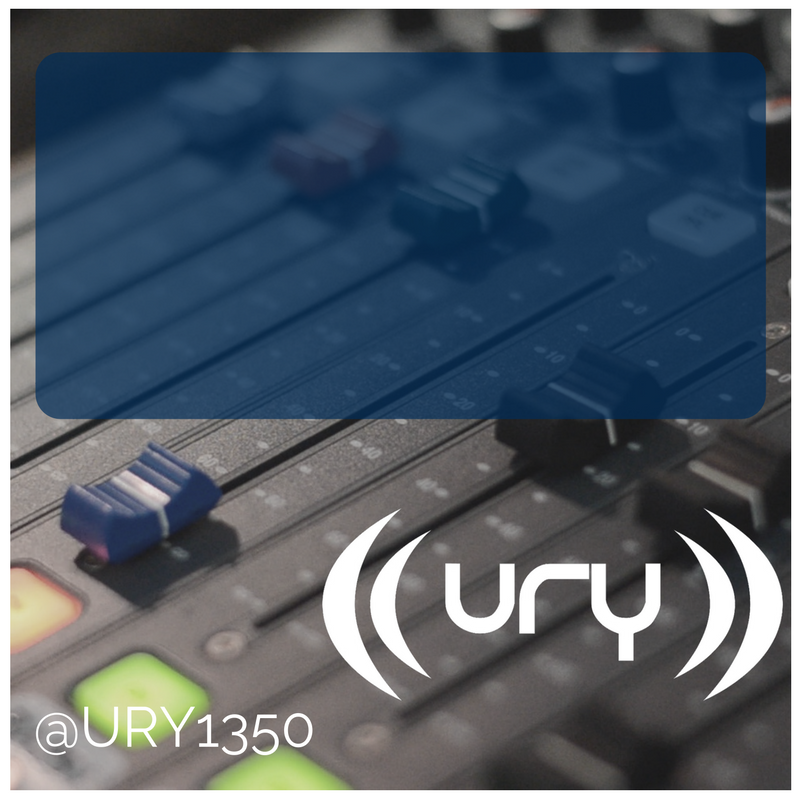
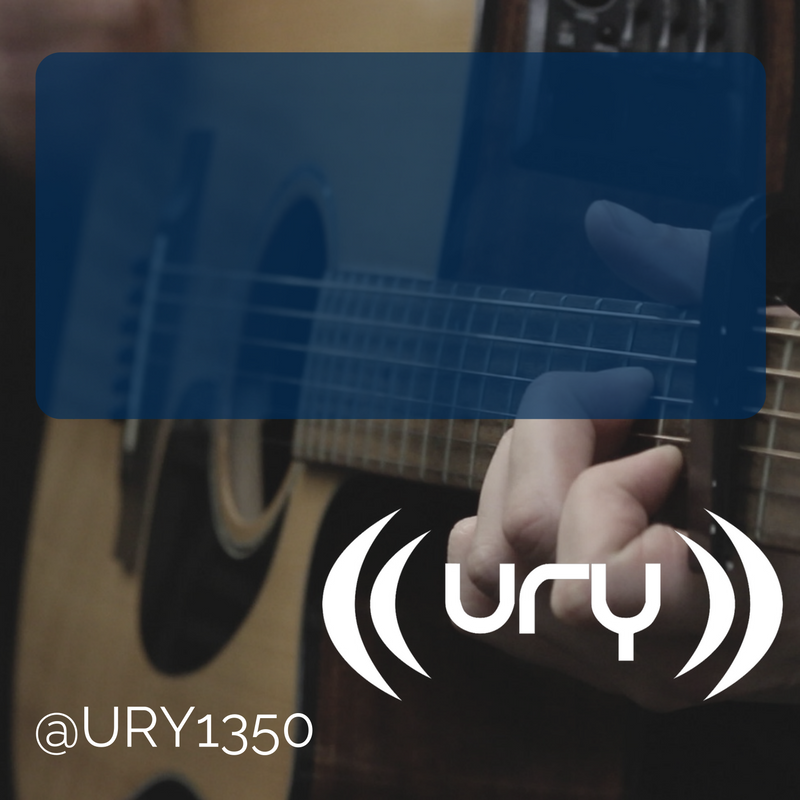
Fixed White Border Issue
The white border was on the original images.

diff --git a/ShowImageCreator.py b/ShowImageCreator.py
@@ -14,7 +14,7 @@ def add_text(showName, outputName):
     """
     print(showName) #Prints to the console which show is being processed.
 
-    # This looks at the name of the show weather it is a flagship or not.
+    # This looks at the name of the show whether it is a flagship or not.
     if showName == '':
         raise Exception("No show name provided.")
     elif showName[:10] == 'URY Brunch': #AM Flagship
@@ -102,6 +102,6 @@ for i in range(0,len(output)):
 for el in output:
     add_text(el)
 '''
-ShowsDict = {12209: 'URY:PM - URY Chart Show', 12868: 'URY:PM - Roku Radio', 12374: 'URY Newshour', 12928: 'No Ducks Given', 12957: '(20,000 Leagues) Into the Void', 13000: "What's That Topic?", 13008: 'Stage', 13049: 'York Sport Report', 13053: 'URY:PM with K-Spence', 13065: 'URY Brunch: The Saturday Lie-In', 13067: "Georgie and Angie's Book Corner", 13070: 'Gully Riddems', 13071: 'Indie Unearthed', 13073: 'Building Bridges - The Road to Rock and Roll', 13074: 'Castle Sessions', 13120: 'Pardon my French', 13123: 'Your Opinion is Wrong', 13125: 'The Night Call', 13126: 'InsomniHour', 13130: "What's on my playlist?", 13134: "Diggin' Deep", 13140: 'Barry Tomes', 13141: 'Topics & Tunes', 13149: 'RapChat', 13156: 'Morning Glory', 13159: 'The 20th Century Collection', 11628: 'Retrospectre!', 13167: 'Star Struck Jack and The Mystery Cat', 13177: 'Kick back Sundays with Kate ', 13179: 'URY:PM (( URY Music ))', 13184: 'The Late Night Bass Podcast', 13186: 'These Charming Girls', 13189: 'Grumpy Youngish Men', 13192: "Leckie's listeners", 13202: 'Dylan with a Mike!', 13204: 'The Right Faces For Radio', 13209: 'Things Can Only Get Bitter', 13227: 'Fringe: Full Metal Racket', 13228: 'URY Brunch: Star-Struck Jack and the Mystery Cat', 13232: 'URY Brunch - Breakfast Club', 13233: "URY Brunch - We're All Ears", 13235: 'Catchy Chunes', 13245: 'In Between Days', 13246: 'No DLC Required', 13255: 'The Breakz Showcase ', 13256: 'URY Brunch - Amateur Hour', 13257: "Grandad's Jazz", 13258: 'URY:PM - Peculiarities', 13259: 'Tales from the Phantasmagoria', 13260: 'URY:PM - Willis Weekly', 13261: 'Almost Audible', 13262: 'Cream Cheese', 13263: "#URYonTOUR: Freshers' 2016", 13264: 'URY:PM - No Ducks Given', 13265: 'Screen', 13266: 'URY Brunch - The Culture Show', 13267: 'URY Whisper Show', 13268: 'URY Brunch - Smile!', 13269: 'Midweek Marauders', 13270: 'Hidden Gems', 13271: 'Go Funk Yourself', 13272: 'The Brighter Side of Life', 13273: "Peck's Picks", 13274: 'Toons in the Afternoons', 13275: 'Roger That', 13276: 'The Eclectic Mix', 13277: 'The Alternative Music Show', 13278: 'DESERT ISLAND DISCO', 13279: 'coHEARence', 13280: 'Formula 1 Analysis', 13282: 'AM-bassador', 13283: 'Liv and the guy', 13284: 'Monday Chills ', 13285: 'Your Weekend', 13287: 'Non-Stop-Tom', 13288: 'Cool Britannia', 13289: 'Nothing but Chuuuunes with Hayds', 13290: 'The Ben and Jasper Show', 13291: 'Why Not?', 13292: 'Alternative Juice', 13293: "Chef Will - Where there's a Will, there's a...", 13294: 'NOUVEAU.', 13295: 'Kiltie Pleasures with Jonny ', 13296: 'Brain Waves', 13297: 'The Sounds of Time', 13298: "Josh and Tom's Afternoon Antics", 13299: 'Music for Old People', 13300: 'GAYdio', 13301: 'PolChat', 13302: 'Vanbrugh Chair Debate', 13303: 'URY Presents: UYCB 2016 Winter Concert', 13304: 'NICturnal', 13305: 'Speech Showcase', 13306: 'More Songs About Chocolate And Girls...', 13307: 'URY Does RAG Courtyard Takeover'}
+ShowsDict = {12209: 'URY:PM - URY Chart Show', 12868: 'URY:PM - Roku Radio', 12374: 'URY Newshour', 12928: 'No Ducks Given', 12957: '(20,000 Leagues) Into the Void', 13000: "What's That Topic?", 13008: 'Stage', 13049: 'York Sport Report', 13065: 'URY Brunch: The Saturday Lie-In', 13067: "Georgie and Angie's Book Corner", 13070: 'Gully Riddems', 13071: 'Indie Unearthed', 13073: 'Building Bridges - The Road to Rock and Roll', 13074: 'Castle Sessions', 13120: 'Pardon my French', 13123: 'Your Opinion is Wrong', 13125: 'The Night Call', 13126: 'InsomniHour', 13130: "What's on my playlist?", 13134: "Diggin' Deep", 13140: 'Barry Tomes', 13141: 'Topics & Tunes', 13149: 'RapChat', 13156: 'Morning Glory', 13159: 'The 20th Century Collection', 11628: 'Retrospectre!', 13167: 'Star Struck Jack and The Mystery Cat', 13177: 'Kick back Sundays with Kate ', 13179: 'URY:PM (( URY Music ))', 13184: 'The Late Night Bass Podcast', 13186: 'These Charming Girls', 13189: 'Grumpy Youngish Men', 13192: "Leckie's listeners", 13202: 'Dylan with a Mike!', 13204: 'The Right Faces For Radio', 13209: 'Things Can Only Get Bitter', 13227: 'Fringe: Full Metal Racket', 13228: 'URY Brunch: Star-Struck Jack and the Mystery Cat', 13232: 'URY Brunch - Breakfast Club', 13233: "URY Brunch - We're All Ears", 13235: 'Catchy Chunes', 13245: 'In Between Days', 13246: 'No DLC Required', 13255: 'The Breakz Showcase ', 13256: 'URY Brunch - Amateur Hour', 13257: "Grandad's Jazz", 13258: 'URY:PM - Peculiarities', 13259: 'Tales from the Phantasmagoria', 13260: 'URY:PM - Willis Weekly', 13261: 'Almost Audible', 13262: 'Cream Cheese', 13263: "#URYonTOUR: Freshers' 2016", 13264: 'URY:PM - No Ducks Given', 13265: 'Screen', 13266: 'URY Brunch - The Culture Show', 13267: 'URY Whisper Show', 13268: 'URY Brunch - Smile!', 13269: 'Midweek Marauders', 13270: 'Hidden Gems', 13271: 'Go Funk Yourself', 13272: 'The Brighter Side of Life', 13273: "Peck's Picks", 13274: 'Toons in the Afternoons', 13275: 'Roger That', 13276: 'The Eclectic Mix', 13277: 'The Alternative Music Show', 13278: 'DESERT ISLAND DISCO', 13279: 'coHEARence', 13280: 'Formula 1 Analysis', 13282: 'AM-bassador', 13283: 'Liv and the guy', 13284: 'Monday Chills ', 13285: 'Your Weekend', 13287: 'Non-Stop-Tom', 13288: 'Cool Britannia', 13289: 'Nothing but Chuuuunes with Hayds', 13290: 'The Ben and Jasper Show', 13291: 'Why Not?', 13292: 'Alternative Juice', 13293: "Chef Will - Where there's a Will, there's a...", 13294: 'NOUVEAU.', 13295: 'Kiltie Pleasures with Jonny ', 13296: 'Brain Waves', 13297: 'The Sounds of Time', 13298: "Josh and Tom's Afternoon Antics", 13299: 'Music for Old People', 13300: 'GAYdio', 13301: 'PolChat', 13302: 'Vanbrugh Chair Debate', 13303: 'URY Presents: UYCB 2016 Winter Concert', 13304: 'NICturnal', 13305: 'Speech Showcase', 13306: 'More Songs About Chocolate And Girls...', 13307: 'URY Does RAG Courtyard Takeover'}
 for key in ShowsDict:
     add_text(ShowsDict[key], str(key))
